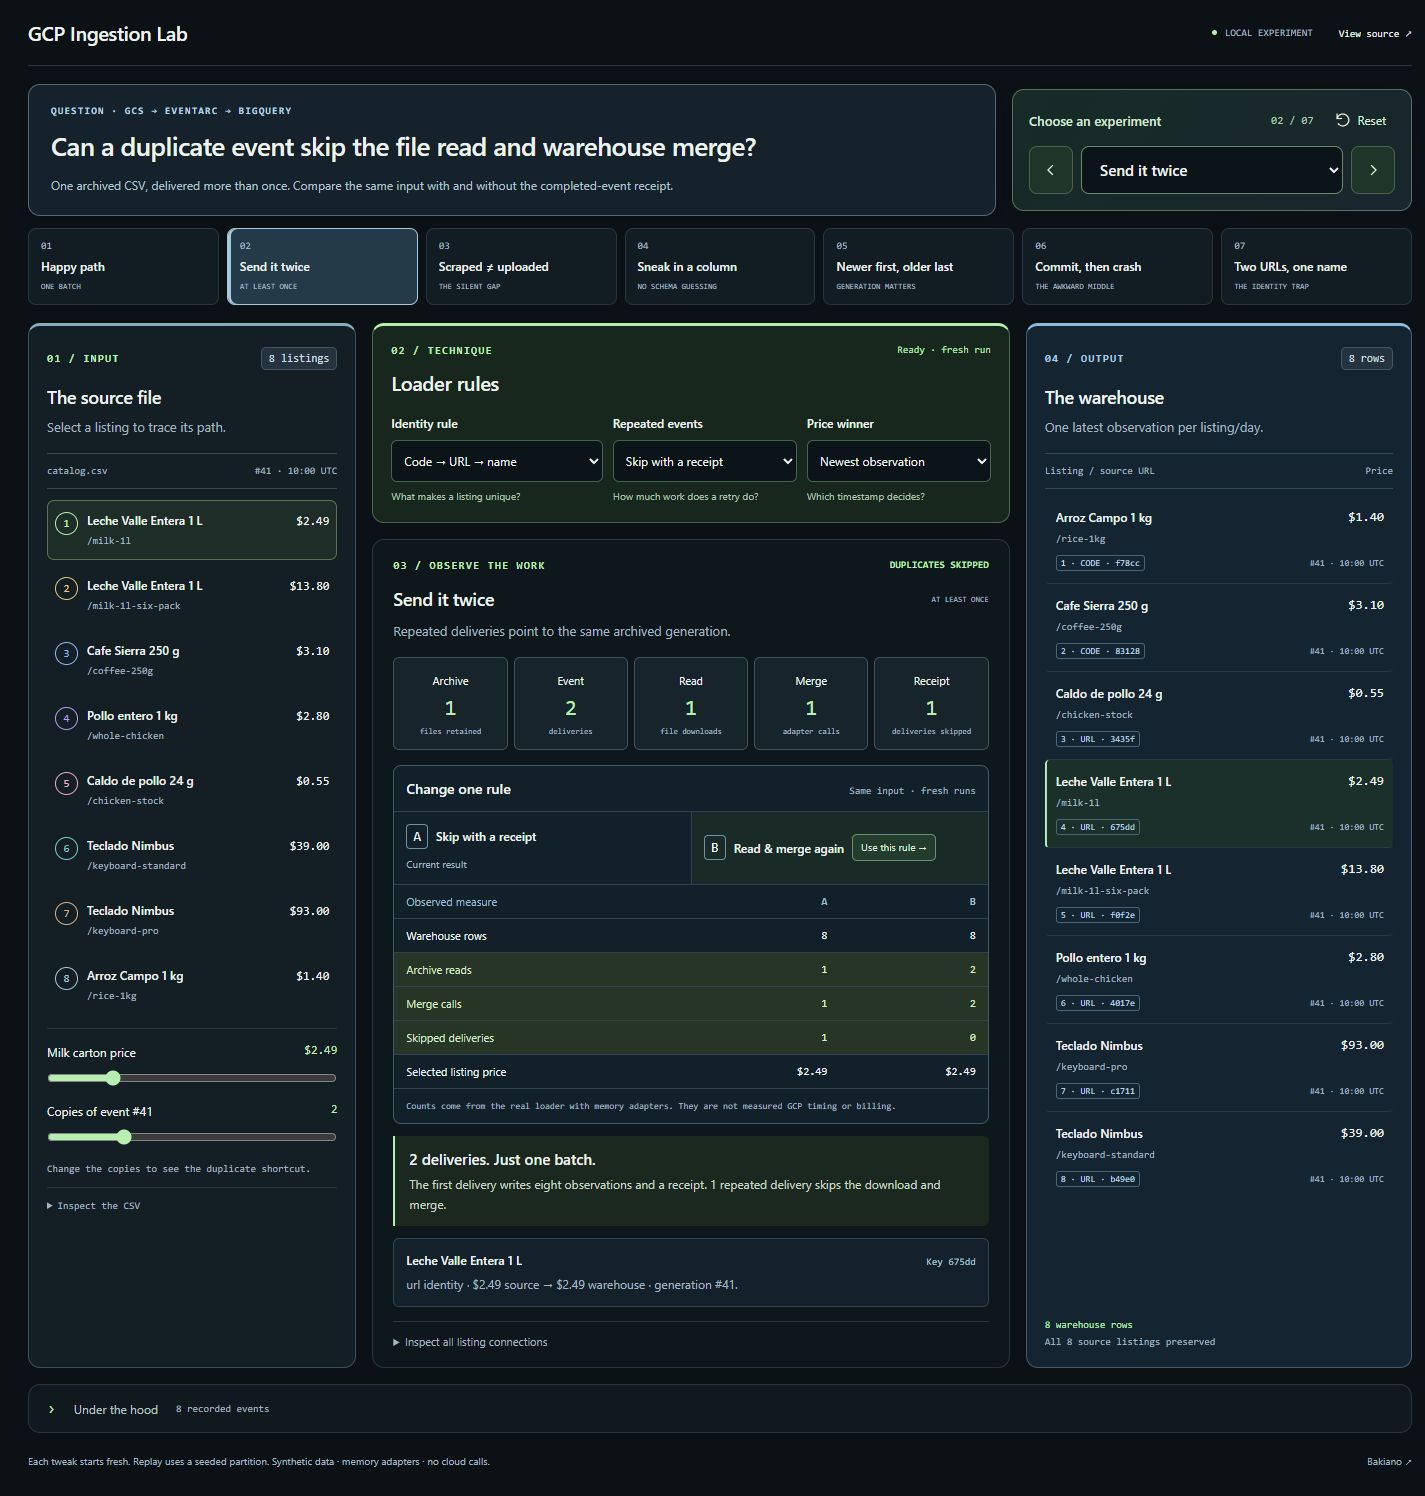
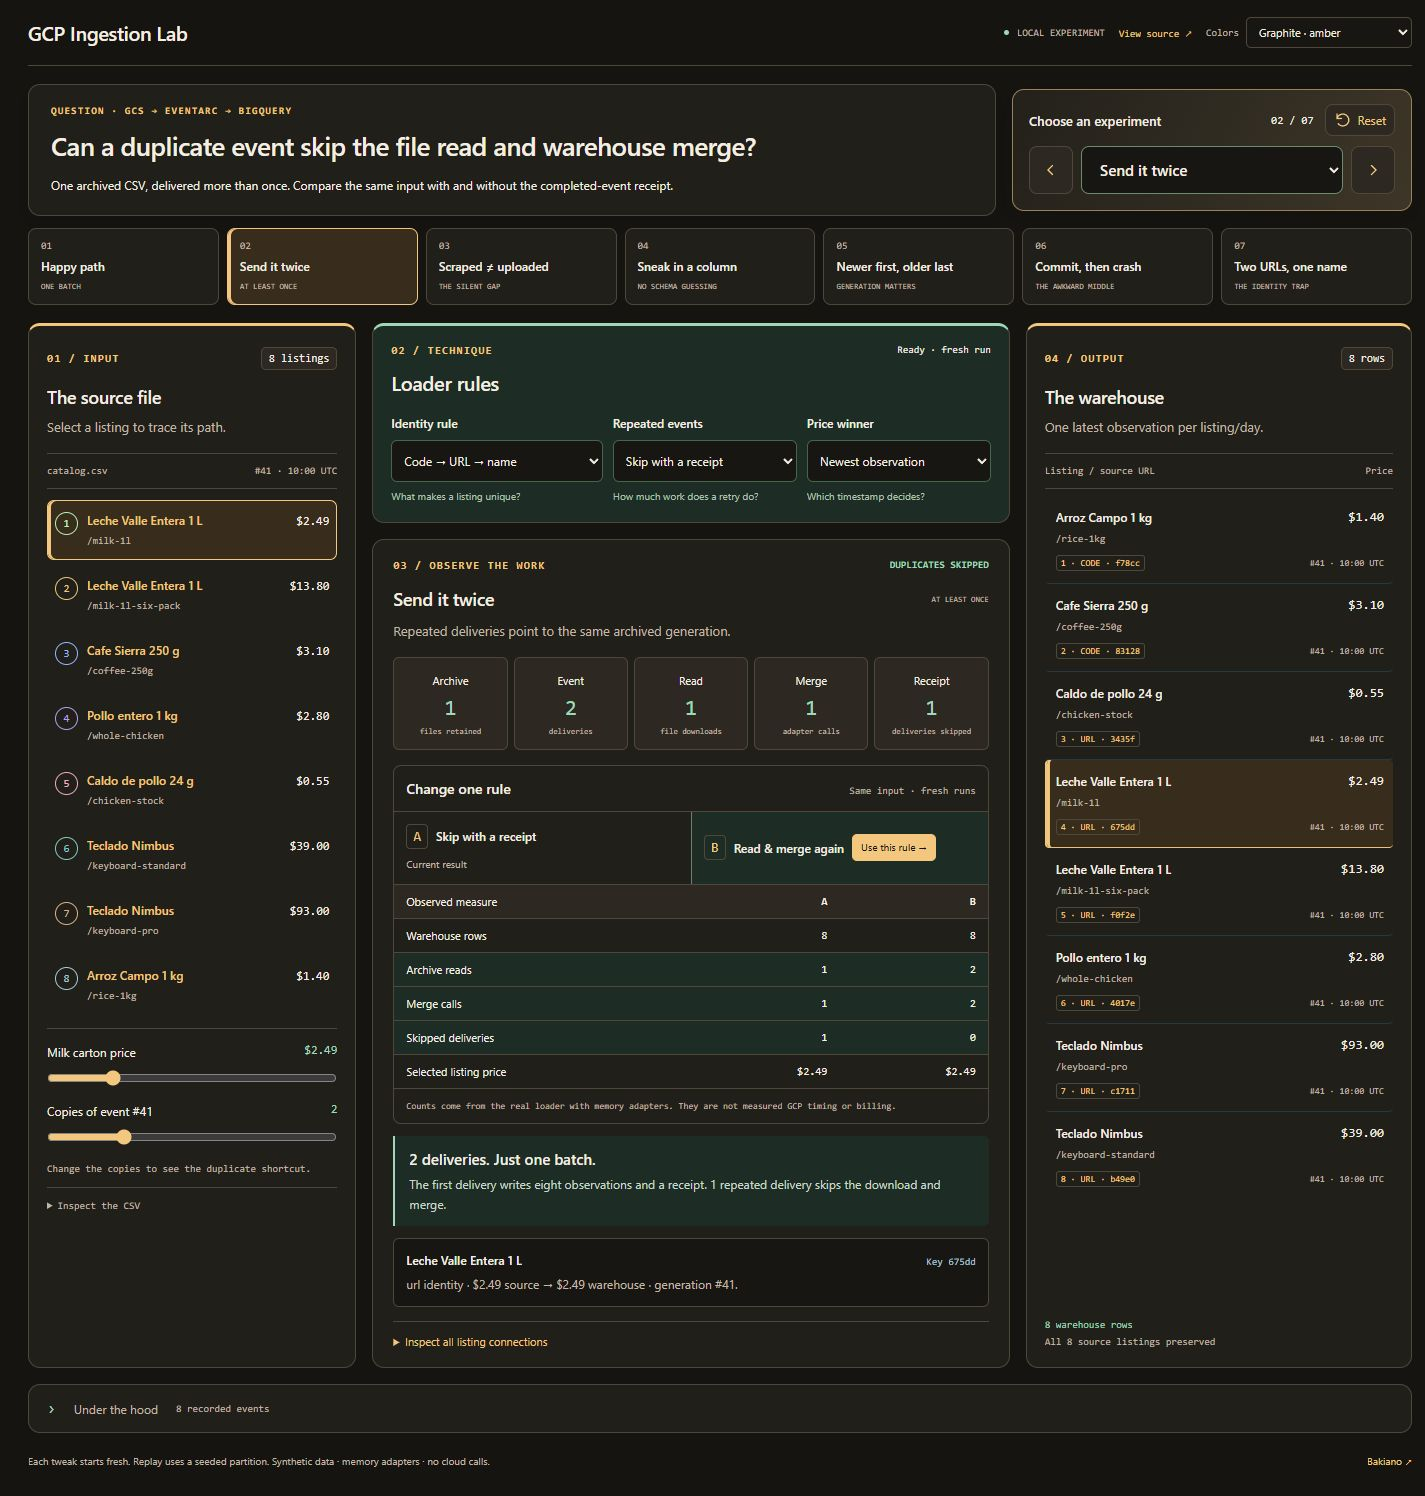
Add selectable color palettes to the ingestion lab (#5)
* feat(lab): add three selectable color palettes

* docs: refresh palette controls and demo screenshots

* docs: capture the ingestion palette at desktop dimensions

diff --git a/demo/palette.css b/demo/palette.css
@@ -1,0 +1,103 @@
+/* Shared lab palettes. Hue changes emphasis; outcome colors retain their meaning. */
+:root {
+  --bg:#151411; --panel:#211f1a; --surface:#211f1a; --raised:#2d2922;
+  --line:#4f473a; --text:#f4eee3; --muted:#c0b7a7;
+  --accent:#f3c77d; --accent-soft:#382d1c; --input:#171613;
+  --mint:#9ed8b7; --success-surface:#1d2d25;
+  --amber:#f2cf87; --warning-surface:#352b1c;
+  --red:#f1a2a4; --danger-surface:#382326;
+  --blue:var(--accent); --lime:var(--mint); --orange:var(--amber);
+}
+:root[data-lab-palette="cyan"] {
+  --bg:#10191b; --panel:#182326; --surface:#182326; --raised:#203034;
+  --line:#43565a; --text:#e7f2f1; --muted:#afc3c3;
+  --accent:#8ddbd8; --accent-soft:#1e3e40; --input:#101b1e;
+  --mint:#addba9; --success-surface:#203126;
+  --amber:#edc791; --warning-surface:#352c20;
+  --red:#eaa5ae; --danger-surface:#35232a;
+}
+:root[data-lab-palette="lilac"] {
+  --bg:#17141e; --panel:#241f2c; --surface:#241f2c; --raised:#302939;
+  --line:#554660; --text:#f0eaf5; --muted:#c3b7ce;
+  --accent:#cbb1f4; --accent-soft:#3b2b50; --input:#191420;
+  --mint:#abe0c0; --success-surface:#203129;
+  --amber:#f0cc96; --warning-surface:#352d23;
+  --red:#f0a3b3; --danger-surface:#382430;
+}
+body { background:var(--bg); color:var(--text); }
+a,summary { color:var(--accent); }
+.brand,h1,h2,h3,h4 { color:var(--text); }
+.app-header,.top { flex-wrap:wrap; }
+.app-header nav,.top-right { align-items:center; flex-wrap:wrap; gap:14px; }
+.top { height:auto; min-height:66px; padding-block:13px; }
+.lab-palette { display:inline-flex; align-items:center; gap:7px; font:10px/1.4 var(--mono,ui-monospace,monospace); color:var(--muted); white-space:nowrap; }
+.lab-palette select { width:166px; max-width:100%; padding:6px 8px; font:11px/1.4 system-ui,sans-serif; height:31px; border:1px solid var(--line); border-radius:5px; background:var(--input); color:var(--text); }
+button,select,input,textarea { border-color:var(--line); color:var(--text); }
+button { background:var(--raised); }
+select,input,textarea,pre,option { background:var(--input); }
+button:hover:not(:disabled) { background:var(--accent-soft); border-color:var(--accent); }
+button:focus-visible,select:focus-visible,input:focus-visible,textarea:focus-visible,a:focus-visible,summary:focus-visible { outline-color:var(--accent); }
+input[type=range] { accent-color:var(--accent); }
+.case-sidebar button,.inventory button,.experiment-list button { background:var(--panel); border-color:var(--line); }
+.case-sidebar button:hover,.inventory button:hover,.experiment-list button:hover { background:var(--raised); border-color:var(--accent); }
+.case-sidebar button[aria-current=true],.inventory button[aria-pressed=true],.experiment-list button[aria-pressed=true],#focus-controls button[aria-pressed=true],#inspector-tabs button[aria-selected=true],#run-choices button[aria-pressed=true],#quick-cases button[aria-pressed=true],.view-controls button[aria-pressed=true] {
+  background:var(--accent-soft); border-color:var(--accent); color:var(--text); box-shadow:inset 3px 0 var(--accent);
+}
+.question-panel,.question-content { background:var(--panel); border-color:var(--line); box-shadow:0 8px 24px #0002; }
+.section-label,.question-panel .eyebrow,.question-position,.record-number,.inventory-number,.inventory-arrow,.experiment-list b,.eyebrow { color:var(--accent); }
+.lede,.question-panel>p,.case-context dd,.findings p,.raw-limits,.raw-limits h4,.method-card>p,.method-card .consequence,.evidence-table tbody th,.result-sets span,.comparison-row p,#meaning,.variant-metrics dt { color:var(--text); }
+.before-panel,.after-panel,.method-card,.variant-card,.findings,.inspector,.evidence-panel,.price-panel,.comparison-panel,.record-evidence,.all-results,.provider,.import-panel,.output-card,.rule-comparison,.explanation-panel,.journal-panel {
+  background:var(--panel); border-color:var(--line);
+}
+.focus-console,.preset-control,.method-card:last-child,.after-panel {
+  border-color:color-mix(in srgb,var(--accent) 45%,var(--line));
+  background:linear-gradient(115deg,color-mix(in srgb,var(--accent) 8%,var(--panel)),var(--panel) 45%,color-mix(in srgb,var(--accent) 15%,var(--panel)));
+  background-size:220% 220%;
+}
+.focus-heading,.focus-heading>span,.focus-reading,#focus-note,.preset-heading>label,.preset-position,.run-state { color:var(--text); }
+.focus-console button,.preset-arrow,.preset-reset { color:var(--accent); background:var(--raised); border-color:var(--line); }
+.focus-console button:hover,.preset-arrow:hover:not(:disabled),.preset-reset:hover:not(:disabled) { background:var(--accent-soft); border-color:var(--accent); }
+.input-panel { background:var(--panel); border-color:var(--line); border-top-color:var(--accent); }
+/* Secondary evidence uses the same neutral surfaces as the selected palette. */
+#quick-cases button { background:var(--raised); border-color:var(--line); color:var(--text); }
+.selection-detail { background:var(--input); border-color:var(--line); }
+.source-key,.output-url,.output-time,.count,.journal-panel summary,#journal li { color:var(--muted); }
+.technique-panel { background:var(--success-surface); border-color:var(--line); border-top-color:var(--mint); }
+.output-panel { background:var(--panel); border-color:var(--line); border-top-color:var(--accent); }
+.output-panel .eyebrow { color:var(--accent); }
+.source-row.selected,.output-row.selected,.chain-record[aria-pressed=true] { background:var(--accent-soft); border-color:var(--accent); box-shadow:inset 3px 0 var(--accent); }
+.source-row:hover,.chain-record:hover { background:var(--raised); }
+.chain-record small,.record-arrow,.record-arrow:hover,.key-badge { color:var(--accent); }
+.variant-heading,.card-heading,thead th,.count,.operation-path>div { background:var(--raised); border-color:var(--line); color:var(--text); }
+.variant-query,.query-block,.record-evidence pre,.method-grid pre { background:var(--input); }
+.sql-row code,.query-block pre { color:var(--text); }
+.sql-keyword,.source-name,.field,.variant-label>span,.method-letter,.key-badge { color:var(--accent); border-color:var(--line); }
+.line-no { color:var(--muted); }
+.sql-row.changed { background:var(--success-surface); box-shadow:inset 2px 0 var(--mint); }
+.scan-track { background:var(--raised); }
+.scan-track rect { fill:var(--accent); }
+.source-meta,.output-meta,.comparison-titles,.comparison-titles>div:last-child,.comparison-table th,.comparison-table td,.comparison-note,th,td { border-color:var(--line); }
+.comparison-table thead { color:var(--muted); }
+.comparison-titles>div:last-child,.comparison-table tr.difference,.explanation,.matched-listings button,.identity-card,.chain-coverage .covered {
+  background:var(--success-surface); border-color:color-mix(in srgb,var(--mint) 40%,var(--line)); color:var(--text);
+}
+.explanation { border-left-color:var(--mint); }
+.identity-card[aria-pressed=true] { background:var(--success-surface); border-color:var(--mint); box-shadow:inset 3px 0 var(--mint); }
+.identity-chips>span { background:var(--panel); border-color:var(--line); }
+.identity-card-top,.identity-chips code,.identity-members,.enrichment-table .field-same td,.result-sets>div:last-child span,.chain-coverage .covered { color:var(--mint); }
+.identity-chips small,.field-agreement { color:var(--muted)!important; }
+.identity-card.needs-review,.check-missing,.check-unsupported,.check-invalid,.field-missing,.input-warning,.tokens span { background:var(--warning-surface); color:var(--amber); border-color:var(--amber); }
+.check-conflict,.field-conflict { background:var(--danger-surface); }
+.raw-record mark { background:var(--warning-surface); color:var(--amber); }
+.generation-order { background:var(--accent-soft); color:var(--text); border-color:var(--accent); }
+#use-opposite,.accent { background:var(--accent); color:var(--bg); border-color:var(--accent); }
+#use-opposite:hover,.accent:hover { background:var(--accent); color:var(--bg); }
+.operation-path strong { color:var(--mint); }
+.operation-path .idle { background:var(--input); }
+.guard-header h1,.hero h1,.hero h1 em { color:var(--text); }
+@media(max-width:720px) {
+  .app-header { align-items:flex-start; gap:10px; }
+  .app-header nav,.top-right { width:100%; justify-content:space-between; gap:10px; }
+  .lab-palette { margin-left:auto; }
+  .lab-palette select { width:153px; }
+}

diff --git a/demo/palette.js b/demo/palette.js
@@ -1,0 +1,18 @@
+const palettes=[['amber','Graphite · amber'],['cyan','Slate · cyan'],['lilac','Ink · lilac']];
+const key='bakiano.lab.palette.v1';
+let selected='amber';
+try { const saved=localStorage.getItem(key); if(palettes.some(([id])=>id===saved))selected=saved; } catch { /* Storage may be unavailable; the default remains usable. */ }
+document.documentElement.dataset.labPalette=selected;
+const target=document.querySelector('.app-header nav,.top-right,.wrap>nav .row');
+if(target && !document.querySelector('[data-lab-palette-control]')) {
+  const label=document.createElement('label'); label.className='lab-palette'; label.dataset.labPaletteControl='';
+  const caption=document.createElement('span'); caption.textContent='Colors';
+  const select=document.createElement('select'); select.setAttribute('aria-label','Color palette');
+  for(const [id,name] of palettes) { const option=document.createElement('option'); option.value=id; option.textContent=name; select.append(option); }
+  select.value=selected; label.append(caption,select); target.append(label);
+  select.addEventListener('change',()=>{
+    if(!palettes.some(([id])=>id===select.value))return;
+    document.documentElement.dataset.labPalette=select.value;
+    try { localStorage.setItem(key,select.value); } catch { /* The current view still changes when storage is blocked. */ }
+  });
+}

diff --git a/scripts/serve.js b/scripts/serve.js
@@ -25,7 +25,7 @@ createServer(async (req, res) => {
     }
     if (req.method !== 'GET' && req.method !== 'HEAD') return respond(res, 405, { error: 'Method not allowed' });
     const relative = path === '/' ? 'demo/index.html' : path.slice(1);
-    if (!/^(demo\/(index\.html|app\.js|style\.css)|docs\/images\/[a-z-]+\.(svg|png|jpg))$/.test(relative)) return respond(res, 404, { error: 'Not found' });
+    if (!/^(demo\/(index\.html|app\.js|style\.css|palette\.(css|js))|docs\/images\/[a-z-]+\.(svg|png|jpg))$/.test(relative)) return respond(res, 404, { error: 'Not found' });
     const bytes = await readFile(resolve(root, relative));
     res.writeHead(200, { 'Content-Type': types[extname(relative)], 'Cache-Control': 'no-store' }).end(req.method === 'HEAD' ? undefined : bytes);
   } catch { respond(res, 400, { error: 'Could not run this scenario.' }); }

diff --git a/demo/index.html b/demo/index.html
@@ -6,6 +6,7 @@
   <meta name="description" content="Tweak an ingestion rule and trace every source listing into the warehouse.">
   <title>GCP Ingestion Lab · Bakiano</title>
   <link rel="stylesheet" href="/demo/style.css">
+  <link rel="stylesheet" href="/demo/palette.css"><script type="module" src="/demo/palette.js"></script>
 </head>
 <body>
 <div class="shell">

diff --git a/docs/palettes.md b/docs/palettes.md
@@ -1,0 +1,17 @@
+# Lab color palettes
+
+Use **Colors** in the header to try three directions: Graphite / amber, Slate / cyan and Ink / lilac. Graphite / amber is the initial default. The choice is saved in this lab's browser storage; storage failures still leave the selector usable.
+
+Palette changes only update CSS tokens. They do not rerun an experiment, change a dataset or submit a model/cloud request. All layouts and evidence remain available.
+
+| Role | Treatment |
+| --- | --- |
+| Selected experiment / focused control | Palette accent and an explicit selected state |
+| Reported agreement / successful boundary | Green, with the existing text label |
+| Missing or weak evidence | Warm warning color, with the existing explanation |
+| Conflict / failed boundary | Coral, with the existing failure label |
+| SQL or record detail | High contrast text on a quiet inset surface |
+
+The existing gentle surface movement uses the current palette; headings retain one plain text color. Reduced-motion preferences continue to disable animation and transitions. Controls wrap in narrow headers rather than overlapping the title.
+
+demo/palette.css provides shared semantic tokens and component treatments. demo/palette.js adds the selector, validates saved choices and handles unavailable browser storage. The three repositories carry the same small files to remain runnable without a package install or shared hosted dependency.

diff --git a/README.md b/README.md
@@ -7,6 +7,8 @@ A runnable lab for the failure boundaries in **Cloud Storage → Eventarc → Cl
 
 ![A duplicate-event experiment with source listings, loader rules, actual operation counts and a paired receipt comparison](docs/images/demo-desktop.jpg)
 
+Use **Colors** in the header to try Graphite / amber, Slate / cyan or Ink / lilac. The selection is saved locally and does not restart an experiment. Outcome colors retain their meaning. [Palette controls](docs/palettes.md).
+
 ## Run it in 15 seconds
 
 Requires Node.js 22 or later. No installation step, credentials, API key or cloud account:
